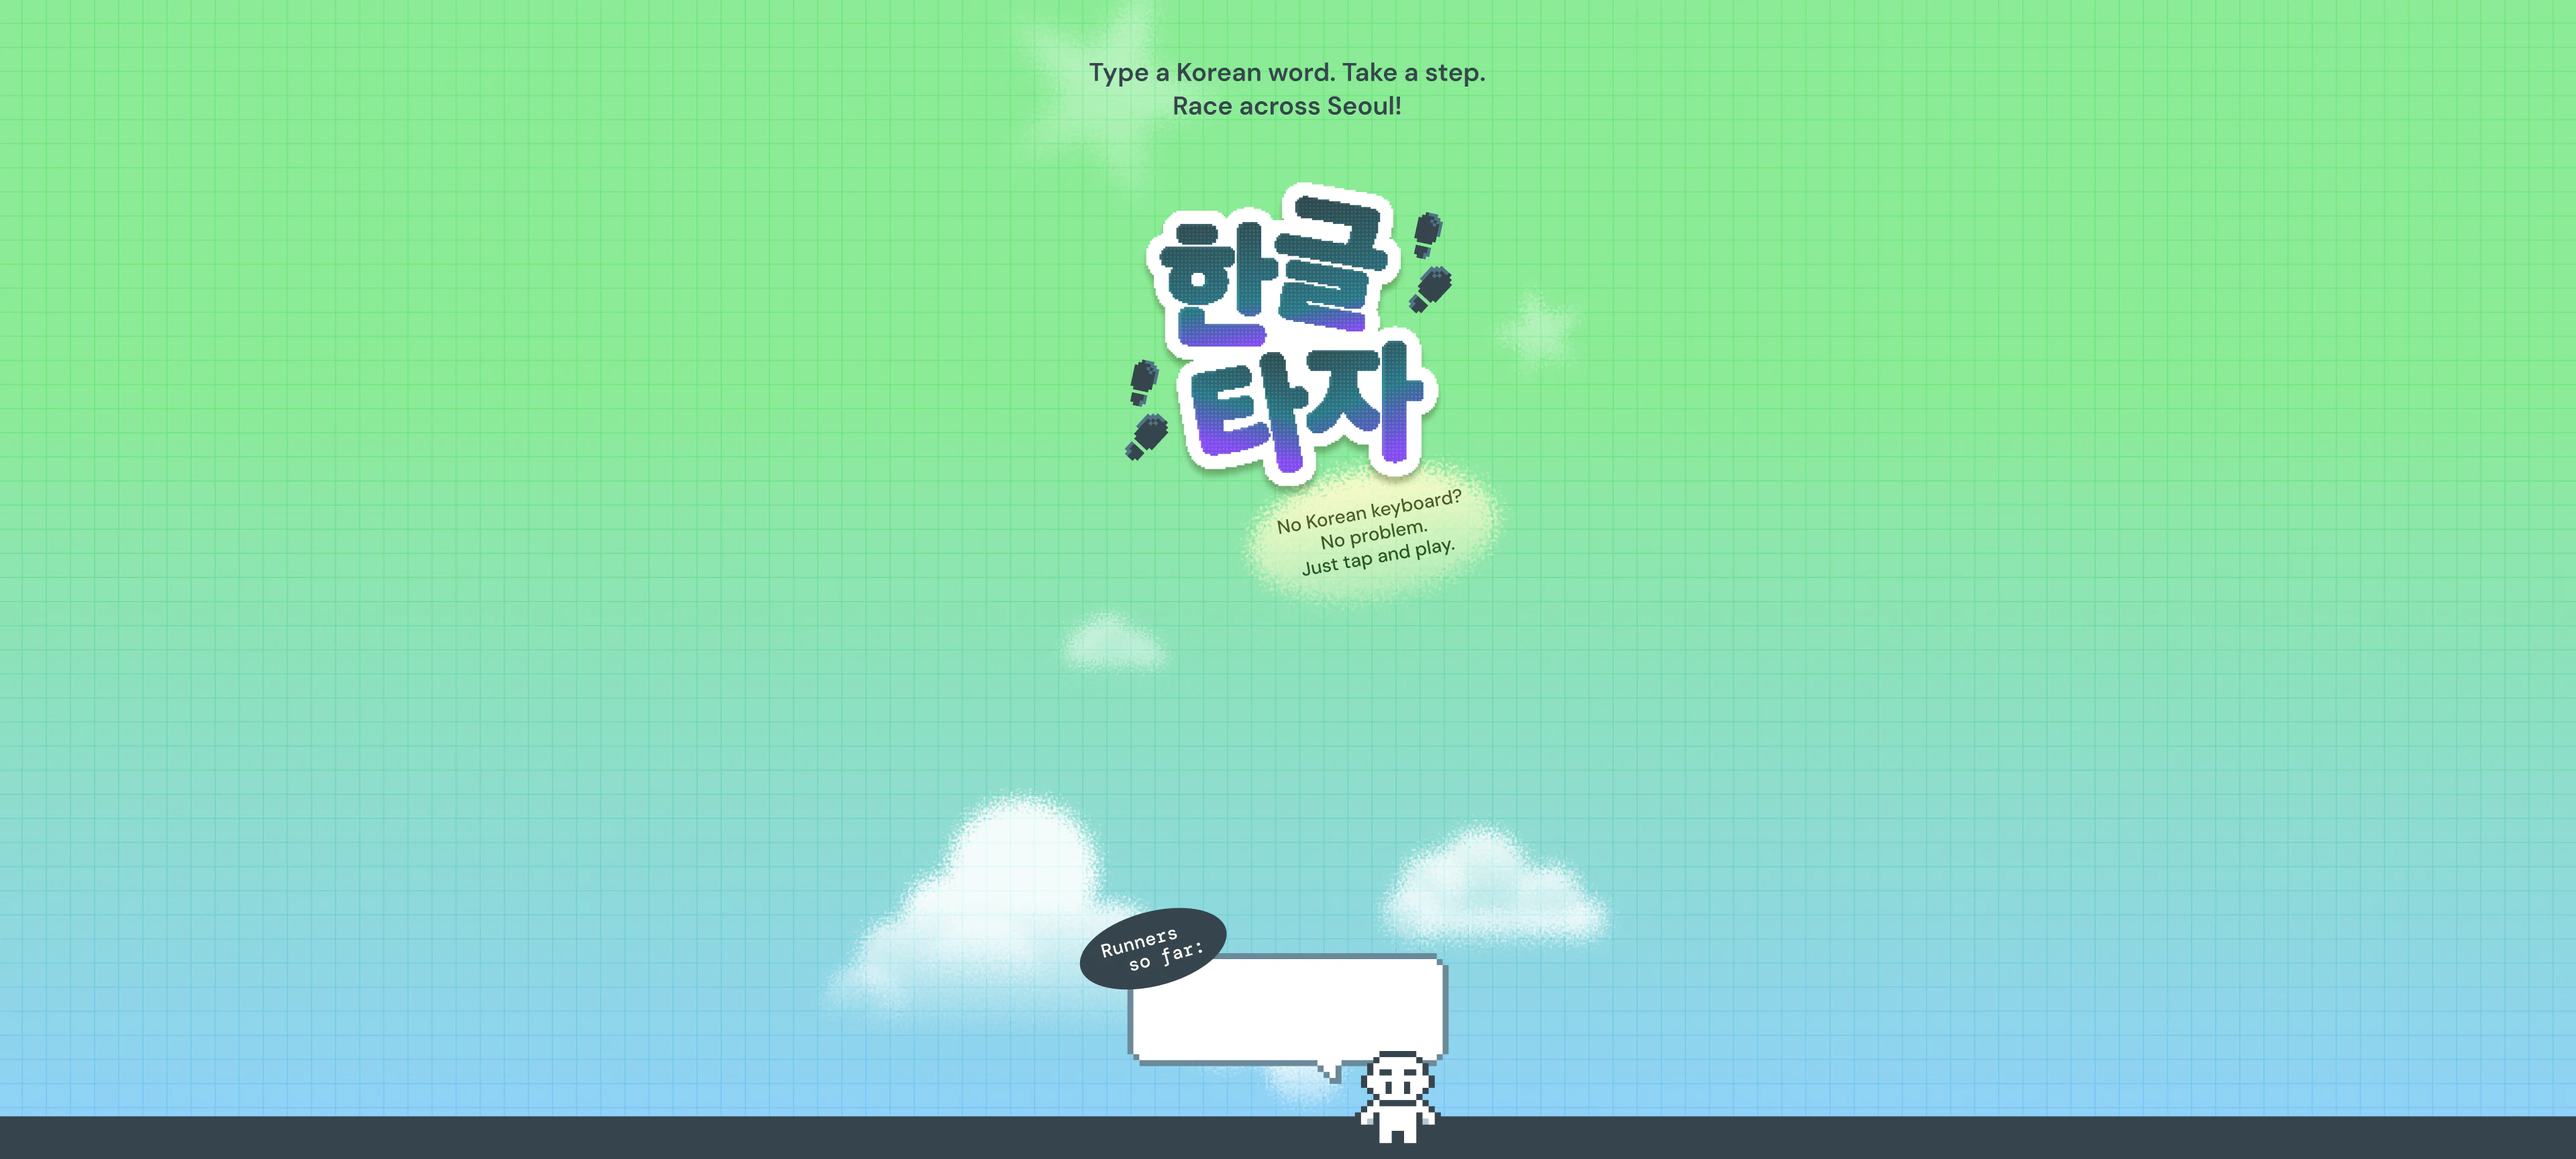
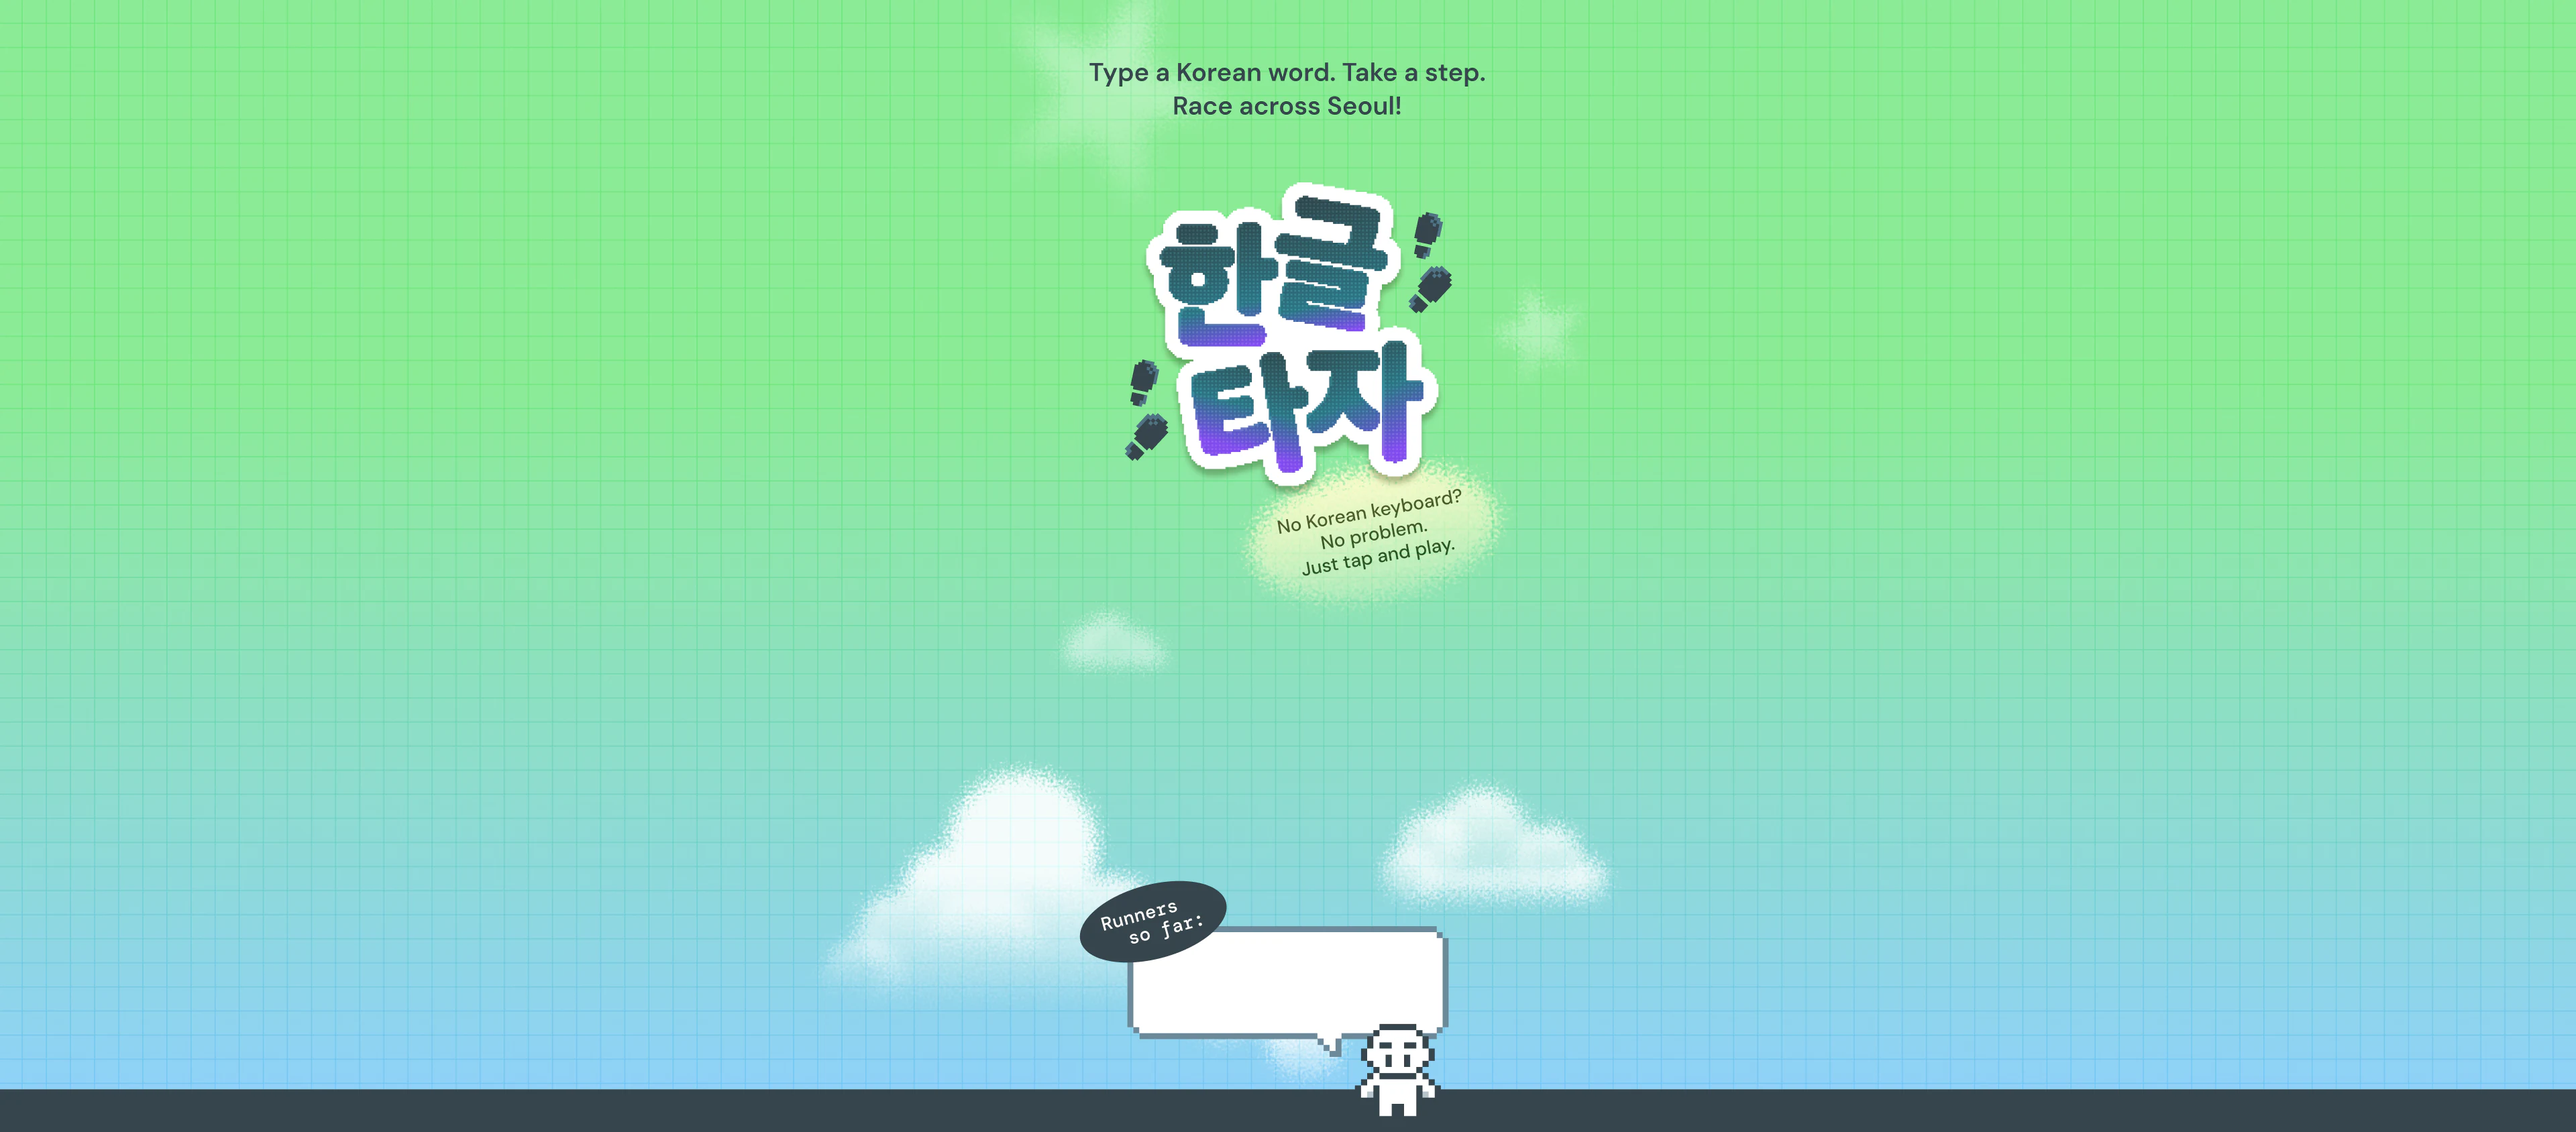
feat: 홈 상단 간격 수정 — 하늘 20px 축소, 이벤트 블록 10px 위로

diff --git a/app/HomeScreen.tsx b/app/HomeScreen.tsx
@@ -4,14 +4,14 @@ import { PrizeDrawHeading } from '@/components/event/PrizeDrawHeading';
 import { Faq } from '@/components/event/Faq';
 import { TtmikFooter } from '@/components/event/TtmikFooter';
 
-// 홈 배경 시안 (1359:10058) 을 2x 로 export 한 아트. 1920 폭이고 가운데 393 이 모바일 홈(1220:24828) 과 같은 그림이다.
+// 홈 배경 시안 (1359:10058 · 모바일 1559:11386) 을 2x 로 export 한 아트. 1920 폭이고 가운데 393 이 모바일 홈(1220:24828) 과 같은 그림이다.
 // 이벤트 블록(타이틀·Join Now·See prizes)과 참여인원 숫자는 이 이미지에서 빠져 있어 아래에서 HTML 로 얹는다.
-// 하늘(832)과 그 아래로 걸친 캐릭터 발까지만 잘라 864 높이다 — 그 아래는 단색이라 CSS 로 칠한다.
+// 하늘(812)과 그 아래로 걸친 캐릭터 발까지만 잘라 844 높이다 — 그 아래는 단색이라 CSS 로 칠한다.
 // 640 미만 화면은 1920 이 필요 없으므로 가운데 640 만 잘라낸 -sm 파일을 받는다.
 
 // 시안 캔버스 크기. 아래 좌표들은 모두 이 캔버스 기준이다.
 const CANVAS_WIDTH = 393;
-const HERO_HEIGHT = 832.158;
+const HERO_HEIGHT = 812.158;
 
 
 /** "Runners so far" 숫자. 집계를 못 읽었으면 가짜 숫자 대신 "-" 를 보인다. */
@@ -31,7 +31,7 @@ function Hero({ runnerCount }: { runnerCount: number | null }) {
       <h1 className="sr-only">Type a Korean word. Take a step. Race across Seoul!</h1>
 
       {/* 이벤트 블록 — 배경 아트에는 하늘만 있고 여기부터는 전부 HTML 이다. */}
-      <div className="absolute left-[46.5px] top-[530.07px] flex w-[300px] flex-col items-center gap-[20px]">
+      <div className="absolute left-[46.5px] top-[520.07px] flex w-[300px] flex-col items-center gap-[20px]">
         <Link
           href="/race"
           className="flex h-[59px] w-full items-center justify-center rounded-[2px] border border-[#36454d] bg-[#f9f064] font-dmmono text-[25px] font-medium text-[#36454d] shadow-[inset_0px_-3px_0px_0px_rgba(0,0,0,0.2),inset_0px_3px_0px_0px_rgba(255,255,255,0.8)]"
@@ -60,26 +60,26 @@ function Hero({ runnerCount }: { runnerCount: number | null }) {
       <img
         src="/home/prize-title.svg"
         alt="Hangeul Day Prize Draw"
-        className="absolute left-[65.26px] top-[486px] h-[22px] w-[262.49px]"
+        className="absolute left-[65.26px] top-[475.99px] h-[22px] w-[262.49px]"
       />
       {/* 선물·게임패드 — Join Now 버튼 모서리에 걸친다. 버튼 위에 그려지므로 클릭을 가로채지 않게 한다.
-          좌표: 시안 프레임(1220:25125) 46.5·486 + 그룹(1220:25167) 0·31 + 그룹 안 위치.
+          좌표: 시안 프레임(1559:11645) 46.5·475.99 + 그룹 0·31 + 그룹 안 위치.
           회전된 아이콘이라 get_metadata 의 x/y 는 회전 전 값이 섞여 틀린다 — get_design_context 의
           렌더 위치(좌 5.14·0, 우 257.55·59.89)를 쓴다. */}
       <img
         src="/home/icon-gift-left.svg"
         alt=""
         aria-hidden
-        className="pointer-events-none absolute left-[51.64px] top-[517px] size-[38px]"
+        className="pointer-events-none absolute left-[51.64px] top-[506.99px] size-[38px]"
       />
       <img
         src="/home/icon-gift-right.svg"
         alt=""
         aria-hidden
-        className="pointer-events-none absolute left-[304.05px] top-[576.89px] h-[33.88px] w-[38.52px]"
+        className="pointer-events-none absolute left-[304.05px] top-[566.88px] h-[33.88px] w-[38.52px]"
       />
 
-      <p className="absolute left-1/2 top-[726.7px] -translate-x-1/2 whitespace-nowrap text-center font-silkscreen text-[40px] leading-[1.3] tracking-[-4px] text-[#36454d]">
+      <p className="absolute left-1/2 top-[706.7px] -translate-x-1/2 whitespace-nowrap text-center font-silkscreen text-[40px] leading-[1.3] tracking-[-4px] text-[#36454d]">
         {formatRunnerCount(runnerCount)}
       </p>
     </section>
@@ -135,7 +135,7 @@ function HomeBackdrop() {
         className="absolute inset-x-0 top-0 bg-[linear-gradient(180deg,#8ceb97_34.859%,#90cfff_105.22%)]"
         style={{ height: HERO_HEIGHT }}
       />
-      <div className="absolute left-1/2 top-0 h-[864px] w-[640px] -translate-x-1/2 bg-[url(/home/home-bg-sm@2x.webp)] bg-size-[100%_100%] bg-no-repeat sm:w-[1920px] sm:bg-[url(/home/home-bg@2x.webp)]" />
+      <div className="absolute left-1/2 top-0 h-[844px] w-[640px] -translate-x-1/2 bg-[url(/home/home-bg-sm@2x.webp)] bg-size-[100%_100%] bg-no-repeat sm:w-[1920px] sm:bg-[url(/home/home-bg@2x.webp)]" />
     </div>
   );
 }
